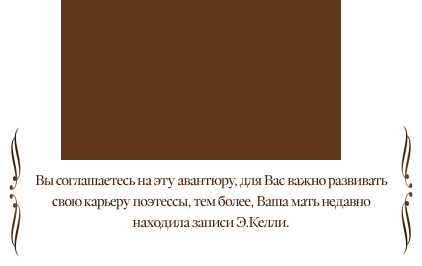
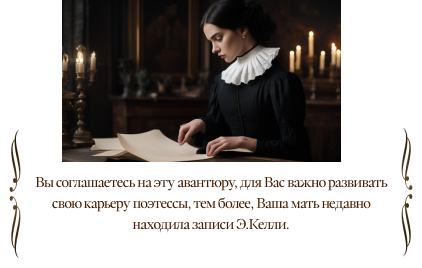
добавлены некоторые картинки

diff --git a/index.html b/index.html
@@ -265,7 +265,7 @@
                 </div>
                 <div class="back">
                     <div class="back-content page13-rudolf-choice1">
-                        <img src="img/kostil.png" alt="" class="page13-rudolf-choice1-img">
+                        <img src="img/page13-rudolf-choice1.png" alt="Шкатулка" class="page13-rudolf-choice1-img">
                         <div class="page13-rudolf-choice1-p"><p>Ваша задача найти записи отчима, втайне от матери. Они находятся в шкатулке. <p>Найдите ключ от шкатулки, для этого отгадайте, какая фраза пропущена в одном из стихотворений Элизабет.</p></div>
                     </div>
                 </div>
@@ -299,7 +299,7 @@
                 </div>
                 <div class="back">
                     <div class="back-content page15-rudolf-true">
-                        <img src="img/kostil.png" alt="" class="page15-rudolf-true-img">
+                        <img src="img/page15-rudolf-right.png" alt="Открытая шкатулка" class="page15-rudolf-true-img">
                         <p class="page15-rudolf-true-p">Вам удалось открыть шкатулку с записями. Они в плохом состоянии, не читабельны. Ваша задача попытаться их соединить. Вам дается три попытки.</p>
                     </div>
                 </div>
@@ -336,7 +336,7 @@
                 </div>
                 <div class="back">
                     <div class="back-content page17-rudolf">
-                        <img src="img/kostil.png" alt="" class="page17-rudolf-img">
+                        <img src="img/page17-rudolf-img.png" alt="" class="page17-rudolf-img">
                         <p class="page17-rudolf-p">Вы создали необходимое зелье. В благодарность <button class="dictionary-word"><u>Рудольф II</u><div class="dictionary-word-popup word-Rudolf4">
                             <img src="img/dictionary-word-hover-left-decor.png" alt="Декор слева">
                             <p class="dictionary-short-text">Рудольф II Габсбург - (18.07.1552, Вена – 20.01.1612, Прага), король Германии и император Священной Римской империи. Сын Максимилиана II Габсбурга и дочери императора Карла V Марии Испанской.</p>
@@ -352,7 +352,7 @@
             <div id="p16" class="paper">
                 <div class="front page18-rudolf" style="background-image: linear-gradient(89deg, #E0BF8F -1.75%, #F2D6B7 13.97%, #FBEEDE 49.08%, #F7E3CA 98.85%);">
                     <button class="choice-btn choice-btn-new" onclick="chooseRudolfP18_1()">
-                        <img src="img/choice-fragment.png" alt="Выбор 1" class="page18-rudolf-choice1">
+                        <img src="img/page18-rudolf-choice1.png" alt="Выбор 1" class="page18-rudolf-choice1">
                         <p class="page18-rudolf-p">Совместно с господином Бальдховеном Вы много и плодотворно начинаете работать, Бальдховен распространяет Вашу поэзию в литературных кругах &nbsp &nbsp &nbsp &nbsp &nbsp &nbsp &nbsp, затем в “Республике ученых”.</p>
                     </button>
                     <div class="page18-rudolf-div">
